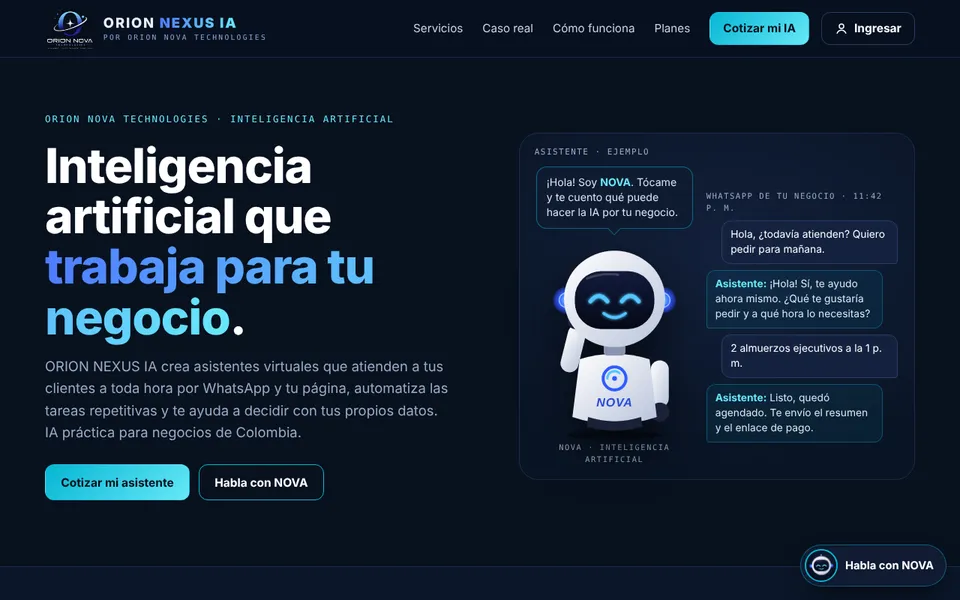
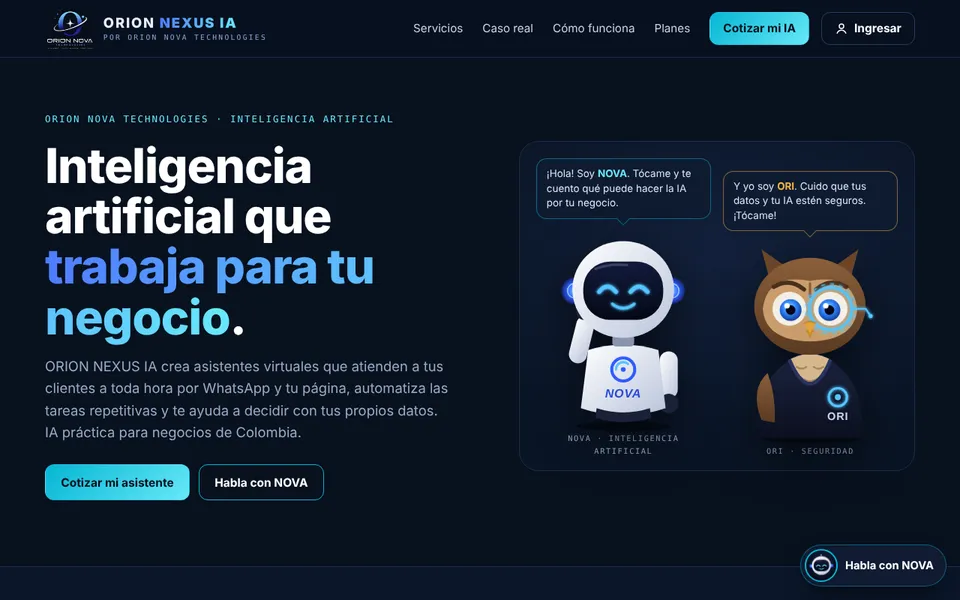
Portafolio: capturas actualizadas de todos los proyectos
Claude-Session: https://claude.ai/code/session_016bbFsvkQrDVmv756VJmicL

Changed region(s): [[0.5625, 0.24, 0.9375, 0.78]]

diff --git a/index.html b/index.html
@@ -974,7 +974,7 @@ code{font-family:var(--f-mono);font-size:.82em;background:var(--bg);border:1px s
     </div>
     <div class="projects">
       <article class="proj" data-estado="demo">
-        <div class="shot"><div class="browser" aria-hidden="true"><i></i><i></i><i></i><span>orion-nova-technologies-s-a-s.github.io/NOVA-IA</span></div><img src="assets/portafolio/nova.webp" alt="Captura de la página de NOVA Restaurantes y Hoteles" width="960" height="600" loading="lazy" decoding="async"></div>
+        <div class="shot"><div class="browser" aria-hidden="true"><i></i><i></i><i></i><span>orion-nova-technologies-s-a-s.github.io/NOVA-IA</span></div><img src="assets/portafolio/nova.webp?v=20261014" alt="Captura de la página de NOVA Restaurantes y Hoteles" width="960" height="600" loading="lazy" decoding="async"></div>
         <div class="body">
           <div class="row"><h3>NOVA Restaurantes y Hoteles</h3><span class="status demo">Demo publicada</span></div>
           <dl>
@@ -987,7 +987,7 @@ code{font-family:var(--f-mono);font-size:.82em;background:var(--bg);border:1px s
         </div>
       </article>
       <article class="proj" data-estado="demo">
-        <div class="shot"><div class="browser" aria-hidden="true"><i></i><i></i><i></i><span>orion-nova-technologies-s-a-s.github.io/NOVA-COURSE</span></div><img src="assets/portafolio/academy.webp" alt="Captura de la página de Orion Nova Academy" width="960" height="600" loading="lazy" decoding="async"></div>
+        <div class="shot"><div class="browser" aria-hidden="true"><i></i><i></i><i></i><span>orion-nova-technologies-s-a-s.github.io/NOVA-COURSE</span></div><img src="assets/portafolio/academy.webp?v=20261014" alt="Captura de la página de Orion Nova Academy" width="960" height="600" loading="lazy" decoding="async"></div>
         <div class="body">
           <div class="row"><h3>Orion Nova Academy</h3><span class="status demo">Demo publicada</span></div>
           <dl>
@@ -999,7 +999,7 @@ code{font-family:var(--f-mono);font-size:.82em;background:var(--bg);border:1px s
         </div>
       </article>
       <article class="proj" data-estado="dev">
-        <div class="shot"><div class="browser" aria-hidden="true"><i></i><i></i><i></i><span>orion-nova-technologies-s-a-s.github.io/Tr-nsito-IA</span></div><img src="assets/portafolio/transito.webp" alt="Captura de la pantalla de inicio de Alerta Tránsito" width="960" height="600" loading="lazy" decoding="async"></div>
+        <div class="shot"><div class="browser" aria-hidden="true"><i></i><i></i><i></i><span>orion-nova-technologies-s-a-s.github.io/Tr-nsito-IA</span></div><img src="assets/portafolio/transito.webp?v=20261014" alt="Captura de la pantalla de inicio de Alerta Tránsito" width="960" height="600" loading="lazy" decoding="async"></div>
         <div class="body">
           <div class="row"><h3>Alerta Tránsito</h3><span class="status dev">En desarrollo</span></div>
           <dl>
@@ -1011,7 +1011,7 @@ code{font-family:var(--f-mono);font-size:.82em;background:var(--bg);border:1px s
         </div>
       </article>
       <article class="proj" data-estado="demo">
-        <div class="shot"><div class="browser" aria-hidden="true"><i></i><i></i><i></i><span>orion-nova-technologies-s-a-s.github.io/orion-core</span></div><img src="assets/portafolio/orion-core.webp?v=3" alt="Captura de la página de ORION CORE" width="960" height="600" loading="lazy" decoding="async"></div>
+        <div class="shot"><div class="browser" aria-hidden="true"><i></i><i></i><i></i><span>orion-nova-technologies-s-a-s.github.io/orion-core</span></div><img src="assets/portafolio/orion-core.webp?v=20261014" alt="Captura de la página de ORION CORE" width="960" height="600" loading="lazy" decoding="async"></div>
         <div class="body">
           <div class="row"><h3>ORION CORE</h3><span class="status demo">Página publicada</span></div>
           <dl>
@@ -1023,13 +1023,13 @@ code{font-family:var(--f-mono);font-size:.82em;background:var(--bg);border:1px s
         </div>
       </article>
       <article class="proj" data-estado="demo">
-        <div class="shot"><div class="browser" aria-hidden="true"><i></i><i></i><i></i><span>orion-nova-technologies-s-a-s.github.io/orion-nexus-IA</span></div><img src="assets/portafolio/orion-nexus-ia.webp" alt="Captura de la página de ORION NEXUS IA" width="960" height="600" loading="lazy" decoding="async"></div>
+        <div class="shot"><div class="browser" aria-hidden="true"><i></i><i></i><i></i><span>orion-nova-technologies-s-a-s.github.io/orion-nexus-IA</span></div><img src="assets/portafolio/orion-nexus-ia.webp?v=20261014" alt="Captura de la página de ORION NEXUS IA" width="960" height="600" loading="lazy" decoding="async"></div>
         <div class="body">
           <div class="row"><h3>ORION NEXUS IA</h3><span class="status demo">Página publicada</span></div>
           <dl>
             <div><dt>Problema</dt><dd>Los negocios pierden clientes por no responder a tiempo y gastan horas en tareas repetitivas.</dd></div>
             <div><dt>Solución</dt><dd>Inteligencia artificial para negocios: asistentes virtuales que atienden por WhatsApp y la página, automatización de procesos, análisis de datos e IA a la medida.</dd></div>
-            <div><dt>Tecnologías</dt><dd class="chips"><span>HTML y JavaScript</span><span>Supabase</span><span>NOVA con voz</span><span>IA</span></dd></div>
+            <div><dt>Tecnologías</dt><dd class="chips"><span>HTML y JavaScript</span><span>Supabase</span><span>NOVA y ORI con voz</span><span>IA</span></dd></div>
           </dl>
           <div class="foot"><a class="link-arrow" href="https://orion-nova-technologies-s-a-s.github.io/orion-nexus-IA/" target="_blank" rel="noopener">Ver la página <svg viewBox="0 0 24 24" fill="none" stroke="currentColor" stroke-width="2"><path d="M7 17 17 7M8 7h9v9"/></svg></a></div>
         </div>
